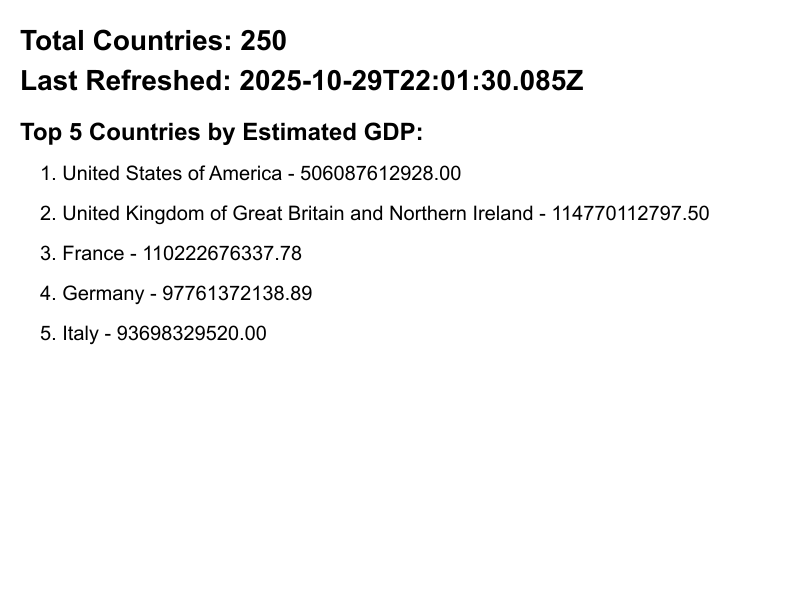
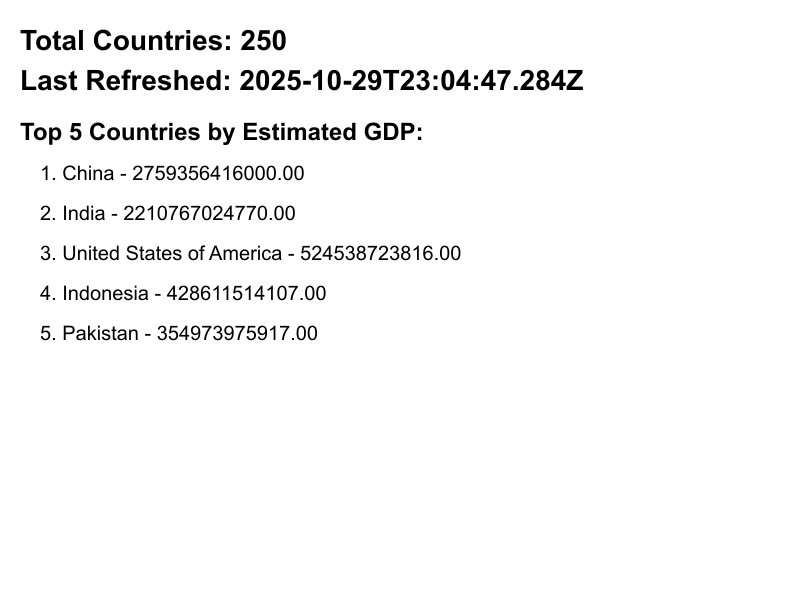
Prepare for Railway deployment: remove node_modules and db v1.1

diff --git a/config/db.js b/config/db.js
@@ -2,12 +2,30 @@
 import { Sequelize } from "sequelize";
 import path from "path";
 import { fileURLToPath } from "url";
+import fs from "fs";
 
 const __filename = fileURLToPath(import.meta.url);
 const __dirname = path.dirname(__filename);
 
+// Ensure a proper folder exists for SQLite
+const dbFolder = path.join(__dirname, "../database");
+if (!fs.existsSync(dbFolder)) fs.mkdirSync(dbFolder, { recursive: true });
+
+// Full path to the database file
+const dbPath = path.join(dbFolder, "database.sqlite");
+
 export const sequelize = new Sequelize({
   dialect: "sqlite",
-  storage: path.resolve(__dirname, "../database.sqlite"), // resolved path is safer
-  logging: false, // disable verbose logs
+  storage: dbPath,
+  logging: false, // Disable verbose logs
 });
+
+// Optional: test connection
+(async () => {
+  try {
+    await sequelize.authenticate();
+    console.log("✅ SQLite database connected successfully.");
+  } catch (err) {
+    console.error("❌ SQLite connection failed:", err.message);
+  }
+})();
